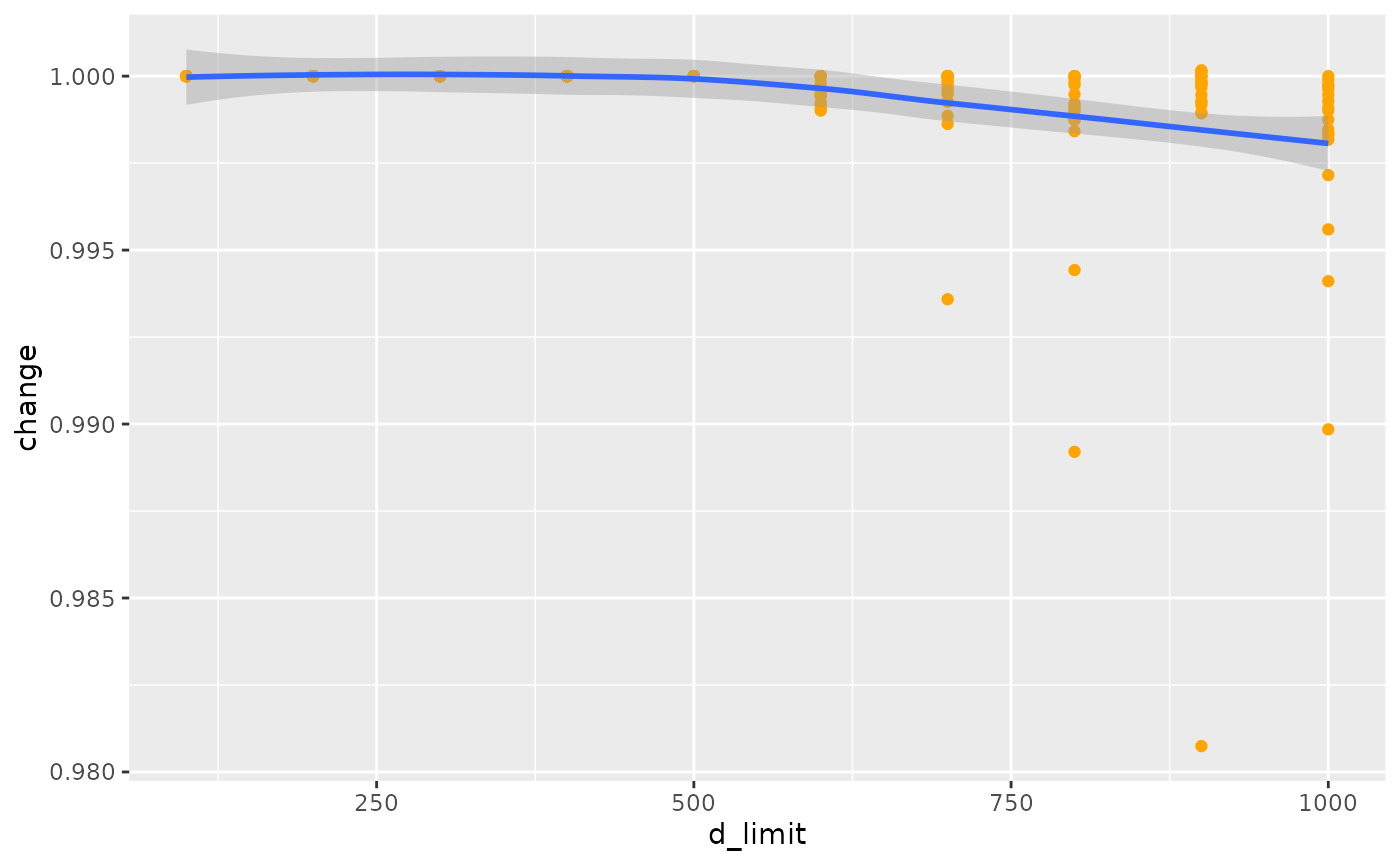
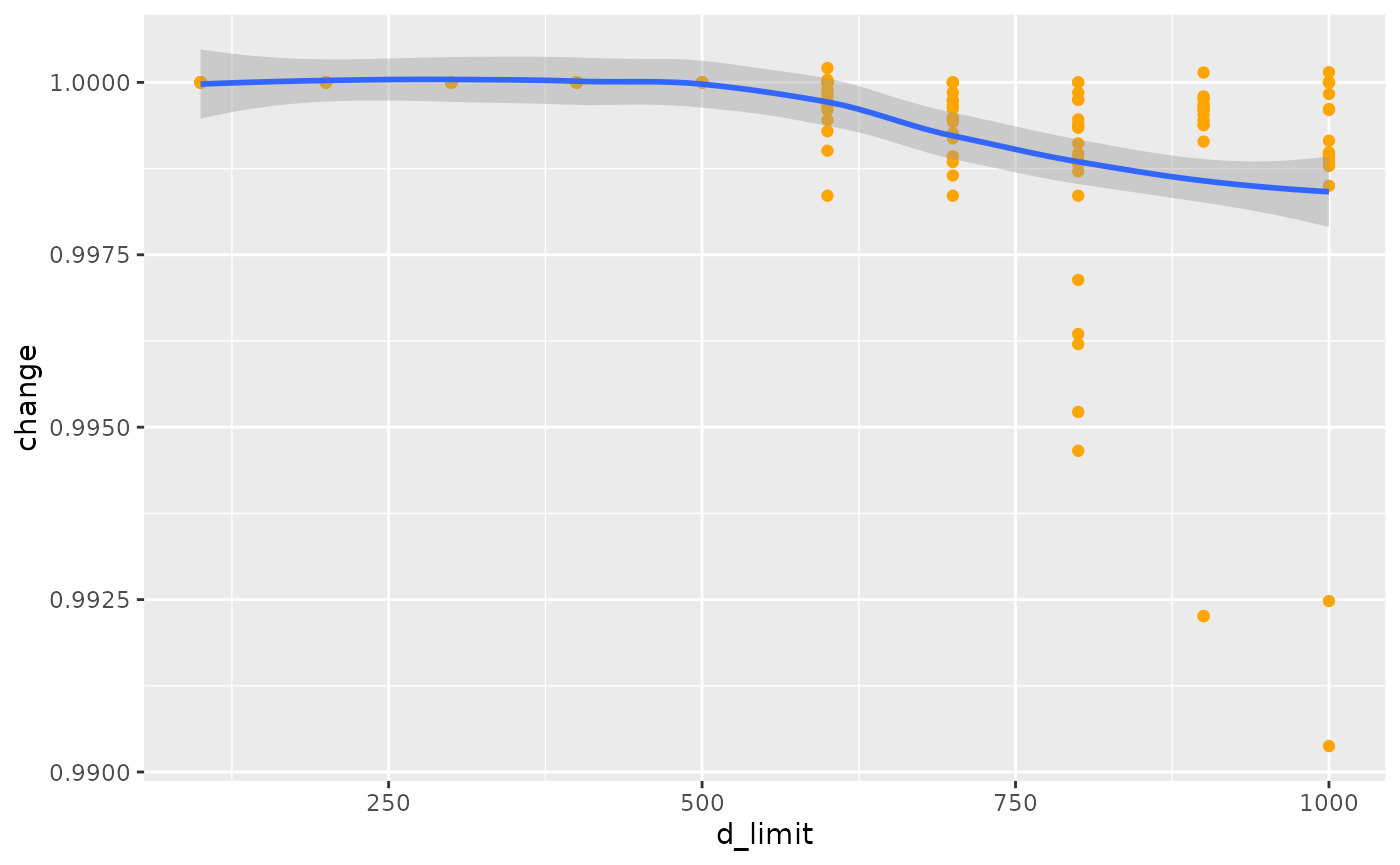
Deploying to gh-pages from @ ATFutures/gtfs-router@90d8fd0e67236167e237f324c626ee5b5995a6b1 🚀

diff --git a/docs/articles/gtfsrouter.html b/docs/articles/gtfsrouter.html
@@ -33,7 +33,7 @@
       </button>
       <span class="navbar-brand">
         <a class="navbar-link" href="../index.html">gtfsrouter</a>
-        <span class="version label label-default" data-toggle="tooltip" data-placement="bottom" title="">0.0.5.137</span>
+        <span class="version label label-default" data-toggle="tooltip" data-placement="bottom" title="">0.0.5.139</span>
       </span>
     </div>
 
@@ -126,7 +126,7 @@ to a locally-stored <code>.zip</code> archive in the
 data can be exported and re-imported with:</p>
 <div class="sourceCode" id="cb1"><pre class="downlit sourceCode r">
 <code class="sourceCode R"><span><span class="fu"><a href="../reference/berlin_gtfs_to_zip.html">berlin_gtfs_to_zip</a></span><span class="op">(</span><span class="op">)</span></span></code></pre></div>
-<pre><code><span><span class="co">## [1] "/tmp/RtmpWDYQvt/vbb.zip"</span></span></code></pre>
+<pre><code><span><span class="co">## [1] "/tmp/RtmpcsBVmd/vbb.zip"</span></span></code></pre>
 <div class="sourceCode" id="cb3"><pre class="downlit sourceCode r">
 <code class="sourceCode R"><span><span class="va">f</span> <span class="op">&lt;-</span> <span class="fu"><a href="https://rdrr.io/r/base/file.path.html" class="external-link">file.path</a></span> <span class="op">(</span><span class="fu"><a href="https://rdrr.io/r/base/tempfile.html" class="external-link">tempdir</a></span> <span class="op">(</span><span class="op">)</span>, <span class="st">"vbb.zip"</span><span class="op">)</span></span>
 <span><span class="fu"><a href="https://rdrr.io/r/base/files.html" class="external-link">file.exists</a></span> <span class="op">(</span><span class="va">f</span><span class="op">)</span></span></code></pre></div>
@@ -365,7 +365,7 @@ data:</p>
 <span>                         to <span class="op">=</span> <span class="va">to</span>,</span>
 <span>                         start_time <span class="op">=</span> <span class="st">"12:00:00"</span><span class="op">)</span><span class="op">)</span></span></code></pre></div>
 <pre><code><span><span class="co">##    user  system elapsed </span></span>
-<span><span class="co">##   0.062   0.000   0.062</span></span></code></pre>
+<span><span class="co">##   0.061   0.000   0.061</span></span></code></pre>
 <p>Note that the <code>day</code> parameter is used to extract the
 timetable, after which it is no longer required in the actual call to
 <code><a href="../reference/gtfs_route.html">gtfs_route()</a></code>.</p>

diff --git a/docs/articles/traveltimes.html b/docs/articles/traveltimes.html
@@ -33,7 +33,7 @@
       </button>
       <span class="navbar-brand">
         <a class="navbar-link" href="../index.html">gtfsrouter</a>
-        <span class="version label label-default" data-toggle="tooltip" data-placement="bottom" title="">0.0.5.137</span>
+        <span class="version label label-default" data-toggle="tooltip" data-placement="bottom" title="">0.0.5.139</span>
       </span>
     </div>
 
@@ -101,7 +101,7 @@ function</a>, is necessary prior to calculating travel times.</p>
 <div class="sourceCode" id="cb1"><pre class="downlit sourceCode r">
 <code class="sourceCode R"><span><span class="kw"><a href="https://rdrr.io/r/base/library.html" class="external-link">library</a></span> <span class="op">(</span><span class="va"><a href="https://github.com/ATFutures/gtfs-router" class="external-link">gtfsrouter</a></span><span class="op">)</span></span>
 <span><span class="fu"><a href="../reference/berlin_gtfs_to_zip.html">berlin_gtfs_to_zip</a></span> <span class="op">(</span><span class="op">)</span></span></code></pre></div>
-<pre><code><span><span class="co">## [1] "/tmp/Rtmp7YlwF3/vbb.zip"</span></span></code></pre>
+<pre><code><span><span class="co">## [1] "/tmp/Rtmphcc63X/vbb.zip"</span></span></code></pre>
 <div class="sourceCode" id="cb3"><pre class="downlit sourceCode r">
 <code class="sourceCode R"><span><span class="va">f</span> <span class="op">&lt;-</span> <span class="fu"><a href="https://rdrr.io/r/base/file.path.html" class="external-link">file.path</a></span> <span class="op">(</span><span class="fu"><a href="https://rdrr.io/r/base/tempfile.html" class="external-link">tempdir</a></span> <span class="op">(</span><span class="op">)</span>, <span class="st">"vbb.zip"</span><span class="op">)</span></span>
 <span><span class="va">gtfs</span> <span class="op">&lt;-</span> <span class="fu"><a href="../reference/extract_gtfs.html">extract_gtfs</a></span> <span class="op">(</span><span class="va">f</span>, quiet <span class="op">=</span> <span class="cn">TRUE</span><span class="op">)</span></span>

diff --git a/docs/reference/gtfs_transfer_table.html b/docs/reference/gtfs_transfer_table.html
@@ -17,7 +17,7 @@
       </button>
       <span class="navbar-brand">
         <a class="navbar-link" href="../index.html">gtfsrouter</a>
-        <span class="version label label-default" data-toggle="tooltip" data-placement="bottom" title="">0.0.5.137</span>
+        <span class="version label label-default" data-toggle="tooltip" data-placement="bottom" title="">0.0.5.139</span>
       </span>
     </div>
 
@@ -112,7 +112,7 @@ throughout the underlying street network. If this is not provided as the
     <div id="ref-examples">
     <h2>Examples</h2>
     <div class="sourceCode"><pre class="sourceCode r"><code><span class="r-in"><span><span class="fu"><a href="berlin_gtfs_to_zip.html">berlin_gtfs_to_zip</a></span> <span class="op">(</span><span class="op">)</span></span></span>
-<span class="r-out co"><span class="r-pr">#&gt;</span> [1] "/tmp/Rtmp6qQZXL/vbb.zip"</span>
+<span class="r-out co"><span class="r-pr">#&gt;</span> [1] "/tmp/RtmpuLJ3bl/vbb.zip"</span>
 <span class="r-in"><span><span class="va">f</span> <span class="op">&lt;-</span> <span class="fu"><a href="https://rdrr.io/r/base/file.path.html" class="external-link">file.path</a></span> <span class="op">(</span><span class="fu"><a href="https://rdrr.io/r/base/tempfile.html" class="external-link">tempdir</a></span> <span class="op">(</span><span class="op">)</span>, <span class="st">"vbb.zip"</span><span class="op">)</span></span></span>
 <span class="r-in"><span><span class="va">g</span> <span class="op">&lt;-</span> <span class="fu"><a href="extract_gtfs.html">extract_gtfs</a></span> <span class="op">(</span><span class="va">f</span>, quiet <span class="op">=</span> <span class="cn">TRUE</span><span class="op">)</span></span></span>
 <span class="r-in"><span><span class="va">g</span> <span class="op">&lt;-</span> <span class="fu">gtfs_transfer_table</span> <span class="op">(</span><span class="va">g</span>, d_limit <span class="op">=</span> <span class="fl">200</span><span class="op">)</span></span></span>

diff --git a/docs/reference/gtfs_route.html b/docs/reference/gtfs_route.html
@@ -18,7 +18,7 @@ a specified time."><!-- mathjax --><script src="https://cdnjs.cloudflare.com/aja
       </button>
       <span class="navbar-brand">
         <a class="navbar-link" href="../index.html">gtfsrouter</a>
-        <span class="version label label-default" data-toggle="tooltip" data-placement="bottom" title="">0.0.5.137</span>
+        <span class="version label label-default" data-toggle="tooltip" data-placement="bottom" title="">0.0.5.139</span>
       </span>
     </div>
 
@@ -182,7 +182,7 @@ can be calculated by setting <code>earliest_arrival = FALSE</code>.</p>
     <div id="ref-examples">
     <h2>Examples</h2>
     <div class="sourceCode"><pre class="sourceCode r"><code><span class="r-in"><span><span class="fu"><a href="berlin_gtfs_to_zip.html">berlin_gtfs_to_zip</a></span> <span class="op">(</span><span class="op">)</span> <span class="co"># Write sample feed from Berlin, Germany to tempdir</span></span></span>
-<span class="r-out co"><span class="r-pr">#&gt;</span> [1] "/tmp/Rtmp6qQZXL/vbb.zip"</span>
+<span class="r-out co"><span class="r-pr">#&gt;</span> [1] "/tmp/RtmpuLJ3bl/vbb.zip"</span>
 <span class="r-in"><span><span class="va">f</span> <span class="op">&lt;-</span> <span class="fu"><a href="https://rdrr.io/r/base/file.path.html" class="external-link">file.path</a></span> <span class="op">(</span><span class="fu"><a href="https://rdrr.io/r/base/tempfile.html" class="external-link">tempdir</a></span> <span class="op">(</span><span class="op">)</span>, <span class="st">"vbb.zip"</span><span class="op">)</span> <span class="co"># name of feed</span></span></span>
 <span class="r-in"><span><span class="va">gtfs</span> <span class="op">&lt;-</span> <span class="fu"><a href="extract_gtfs.html">extract_gtfs</a></span> <span class="op">(</span><span class="va">f</span><span class="op">)</span></span></span>
 <span class="r-msg co"><span class="r-pr">#&gt;</span> ▶<span style="color: #00BB00;"> Unzipping GTFS archive</span></span>

diff --git a/docs/reference/berlin_gtfs.html b/docs/reference/berlin_gtfs.html
@@ -23,7 +23,7 @@ characters.'><!-- mathjax --><script src="https://cdnjs.cloudflare.com/ajax/libs
       </button>
       <span class="navbar-brand">
         <a class="navbar-link" href="../index.html">gtfsrouter</a>
-        <span class="version label label-default" data-toggle="tooltip" data-placement="bottom" title="">0.0.5.137</span>
+        <span class="version label label-default" data-toggle="tooltip" data-placement="bottom" title="">0.0.5.139</span>
       </span>
     </div>
 
@@ -96,7 +96,7 @@ for which no route is possible return <code>NULL</code>.</p>
     <div id="ref-examples">
     <h2>Examples</h2>
     <div class="sourceCode"><pre class="sourceCode r"><code><span class="r-in"><span><span class="fu"><a href="berlin_gtfs_to_zip.html">berlin_gtfs_to_zip</a></span> <span class="op">(</span><span class="op">)</span> <span class="co"># Write sample feed from Berlin, Germany to tempdir</span></span></span>
-<span class="r-out co"><span class="r-pr">#&gt;</span> [1] "/tmp/Rtmp6qQZXL/vbb.zip"</span>
+<span class="r-out co"><span class="r-pr">#&gt;</span> [1] "/tmp/RtmpuLJ3bl/vbb.zip"</span>
 <span class="r-in"><span><span class="va">f</span> <span class="op">&lt;-</span> <span class="fu"><a href="https://rdrr.io/r/base/file.path.html" class="external-link">file.path</a></span> <span class="op">(</span><span class="fu"><a href="https://rdrr.io/r/base/tempfile.html" class="external-link">tempdir</a></span> <span class="op">(</span><span class="op">)</span>, <span class="st">"vbb.zip"</span><span class="op">)</span> <span class="co"># name of feed</span></span></span>
 <span class="r-in"><span><span class="va">gtfs</span> <span class="op">&lt;-</span> <span class="fu"><a href="extract_gtfs.html">extract_gtfs</a></span> <span class="op">(</span><span class="va">f</span><span class="op">)</span></span></span>
 <span class="r-msg co"><span class="r-pr">#&gt;</span> ▶<span style="color: #00BB00;"> Unzipping GTFS archive</span></span>

diff --git a/docs/reference/gtfs_timetable.html b/docs/reference/gtfs_timetable.html
@@ -17,7 +17,7 @@
       </button>
       <span class="navbar-brand">
         <a class="navbar-link" href="../index.html">gtfsrouter</a>
-        <span class="version label label-default" data-toggle="tooltip" data-placement="bottom" title="">0.0.5.137</span>
+        <span class="version label label-default" data-toggle="tooltip" data-placement="bottom" title="">0.0.5.139</span>
       </span>
     </div>
 
@@ -126,7 +126,7 @@ that case will generally take longer.</p>
     <div id="ref-examples">
     <h2>Examples</h2>
     <div class="sourceCode"><pre class="sourceCode r"><code><span class="r-in"><span><span class="fu"><a href="berlin_gtfs_to_zip.html">berlin_gtfs_to_zip</a></span> <span class="op">(</span><span class="op">)</span> <span class="co"># Write sample feed from Berlin, Germany to tempdir</span></span></span>
-<span class="r-out co"><span class="r-pr">#&gt;</span> [1] "/tmp/Rtmp6qQZXL/vbb.zip"</span>
+<span class="r-out co"><span class="r-pr">#&gt;</span> [1] "/tmp/RtmpuLJ3bl/vbb.zip"</span>
 <span class="r-in"><span><span class="va">f</span> <span class="op">&lt;-</span> <span class="fu"><a href="https://rdrr.io/r/base/file.path.html" class="external-link">file.path</a></span> <span class="op">(</span><span class="fu"><a href="https://rdrr.io/r/base/tempfile.html" class="external-link">tempdir</a></span> <span class="op">(</span><span class="op">)</span>, <span class="st">"vbb.zip"</span><span class="op">)</span> <span class="co"># name of feed</span></span></span>
 <span class="r-in"><span><span class="va">gtfs</span> <span class="op">&lt;-</span> <span class="fu"><a href="extract_gtfs.html">extract_gtfs</a></span> <span class="op">(</span><span class="va">f</span><span class="op">)</span></span></span>
 <span class="r-msg co"><span class="r-pr">#&gt;</span> ▶<span style="color: #00BB00;"> Unzipping GTFS archive</span></span>

diff --git a/docs/reference/gtfs_traveltimes.html b/docs/reference/gtfs_traveltimes.html
@@ -18,7 +18,7 @@ other reachable station in a system."><!-- mathjax --><script src="https://cdnjs
       </button>
       <span class="navbar-brand">
         <a class="navbar-link" href="../index.html">gtfsrouter</a>
-        <span class="version label label-default" data-toggle="tooltip" data-placement="bottom" title="">0.0.5.137</span>
+        <span class="version label label-default" data-toggle="tooltip" data-placement="bottom" title="">0.0.5.139</span>
       </span>
     </div>
 
@@ -155,7 +155,7 @@ to reach all or most stations desired for a particular query, rather than set
     <div id="ref-examples">
     <h2>Examples</h2>
     <div class="sourceCode"><pre class="sourceCode r"><code><span class="r-in"><span><span class="fu"><a href="berlin_gtfs_to_zip.html">berlin_gtfs_to_zip</a></span> <span class="op">(</span><span class="op">)</span></span></span>
-<span class="r-out co"><span class="r-pr">#&gt;</span> [1] "/tmp/Rtmp6qQZXL/vbb.zip"</span>
+<span class="r-out co"><span class="r-pr">#&gt;</span> [1] "/tmp/RtmpuLJ3bl/vbb.zip"</span>
 <span class="r-in"><span><span class="va">f</span> <span class="op">&lt;-</span> <span class="fu"><a href="https://rdrr.io/r/base/file.path.html" class="external-link">file.path</a></span> <span class="op">(</span><span class="fu"><a href="https://rdrr.io/r/base/tempfile.html" class="external-link">tempdir</a></span> <span class="op">(</span><span class="op">)</span>, <span class="st">"vbb.zip"</span><span class="op">)</span></span></span>
 <span class="r-in"><span><span class="va">g</span> <span class="op">&lt;-</span> <span class="fu"><a href="extract_gtfs.html">extract_gtfs</a></span> <span class="op">(</span><span class="va">f</span><span class="op">)</span></span></span>
 <span class="r-msg co"><span class="r-pr">#&gt;</span> ▶<span style="color: #00BB00;"> Unzipping GTFS archive</span></span>

diff --git a/docs/reference/extract_gtfs.html b/docs/reference/extract_gtfs.html
@@ -17,7 +17,7 @@
       </button>
       <span class="navbar-brand">
         <a class="navbar-link" href="../index.html">gtfsrouter</a>
-        <span class="version label label-default" data-toggle="tooltip" data-placement="bottom" title="">0.0.5.137</span>
+        <span class="version label label-default" data-toggle="tooltip" data-placement="bottom" title="">0.0.5.139</span>
       </span>
     </div>
 
@@ -102,7 +102,7 @@ function to the two time columns of the "stop_times" table.</p>
     <div id="ref-examples">
     <h2>Examples</h2>
     <div class="sourceCode"><pre class="sourceCode r"><code><span class="r-in"><span><span class="fu"><a href="berlin_gtfs_to_zip.html">berlin_gtfs_to_zip</a></span> <span class="op">(</span><span class="op">)</span> <span class="co"># Write sample feed from Berlin, Germany to tempdir</span></span></span>
-<span class="r-out co"><span class="r-pr">#&gt;</span> [1] "/tmp/Rtmp6qQZXL/vbb.zip"</span>
+<span class="r-out co"><span class="r-pr">#&gt;</span> [1] "/tmp/RtmpuLJ3bl/vbb.zip"</span>
 <span class="r-in"><span><span class="va">f</span> <span class="op">&lt;-</span> <span class="fu"><a href="https://rdrr.io/r/base/file.path.html" class="external-link">file.path</a></span> <span class="op">(</span><span class="fu"><a href="https://rdrr.io/r/base/tempfile.html" class="external-link">tempdir</a></span> <span class="op">(</span><span class="op">)</span>, <span class="st">"vbb.zip"</span><span class="op">)</span> <span class="co"># name of feed</span></span></span>
 <span class="r-in"><span><span class="va">gtfs</span> <span class="op">&lt;-</span> <span class="fu">extract_gtfs</span> <span class="op">(</span><span class="va">f</span><span class="op">)</span></span></span>
 <span class="r-msg co"><span class="r-pr">#&gt;</span> ▶<span style="color: #00BB00;"> Unzipping GTFS archive</span></span>

diff --git a/docs/articles/transfers.html b/docs/articles/transfers.html
@@ -33,7 +33,7 @@
       </button>
       <span class="navbar-brand">
         <a class="navbar-link" href="../index.html">gtfsrouter</a>
-        <span class="version label label-default" data-toggle="tooltip" data-placement="bottom" title="">0.0.5.137</span>
+        <span class="version label label-default" data-toggle="tooltip" data-placement="bottom" title="">0.0.5.139</span>
       </span>
     </div>
 
@@ -590,9 +590,9 @@ range of distance limits.</p>
 <p><img src="transfers_files/figure-html/plot1-1.png" width="700"></p>
 <p>And these additional transfer possibilities can make a significant
 difference to estimated travel times. Note, however, that the travel
-times only changed for 579 stations, while the value of
+times only changed for 1078 stations, while the value of
 <code>nsame</code> value recording numbers of stations for which travel
-times did not change was 4,609. Travel times may also increase as
+times did not change was 4,547. Travel times may also increase as
 additional transfers may be used to reduce numbers of connecting
 services required for a particular trip, and the algorithm generally
 searches for connections with minimal numbers of transfers.</p>
@@ -674,7 +674,7 @@ limits of maximal transfer distance, although the overall effect is very
 minimal. The object <code>d</code> also records the proportion of
 station pairs for which modifications to the transfers table actually
 changed travel times, which in this case amounts to a mean value of
-0.0052, clearly revealing that very few trips actually change.</p>
+0.0045, clearly revealing that very few trips actually change.</p>
 <div class="section level3">
 <h3 id="a-more-realistic-example">A more realistic example<a class="anchor" aria-label="anchor" href="#a-more-realistic-example"></a>
 </h3>

diff --git a/docs/reference/summary.gtfs.html b/docs/reference/summary.gtfs.html
@@ -17,7 +17,7 @@
       </button>
       <span class="navbar-brand">
         <a class="navbar-link" href="../index.html">gtfsrouter</a>
-        <span class="version label label-default" data-toggle="tooltip" data-placement="bottom" title="">0.0.5.137</span>
+        <span class="version label label-default" data-toggle="tooltip" data-placement="bottom" title="">0.0.5.139</span>
       </span>
     </div>
 
@@ -81,7 +81,7 @@
     <div id="ref-examples">
     <h2>Examples</h2>
     <div class="sourceCode"><pre class="sourceCode r"><code><span class="r-in"><span><span class="fu"><a href="berlin_gtfs_to_zip.html">berlin_gtfs_to_zip</a></span> <span class="op">(</span><span class="op">)</span></span></span>
-<span class="r-out co"><span class="r-pr">#&gt;</span> [1] "/tmp/Rtmp6qQZXL/vbb.zip"</span>
+<span class="r-out co"><span class="r-pr">#&gt;</span> [1] "/tmp/RtmpuLJ3bl/vbb.zip"</span>
 <span class="r-in"><span><span class="va">f</span> <span class="op">&lt;-</span> <span class="fu"><a href="https://rdrr.io/r/base/file.path.html" class="external-link">file.path</a></span> <span class="op">(</span><span class="fu"><a href="https://rdrr.io/r/base/tempfile.html" class="external-link">tempdir</a></span> <span class="op">(</span><span class="op">)</span>, <span class="st">"vbb.zip"</span><span class="op">)</span></span></span>
 <span class="r-in"><span><span class="va">g</span> <span class="op">&lt;-</span> <span class="fu"><a href="extract_gtfs.html">extract_gtfs</a></span> <span class="op">(</span><span class="va">f</span><span class="op">)</span></span></span>
 <span class="r-msg co"><span class="r-pr">#&gt;</span> ▶<span style="color: #00BB00;"> Unzipping GTFS archive</span></span>

diff --git a/docs/authors.html b/docs/authors.html
@@ -17,7 +17,7 @@
       </button>
       <span class="navbar-brand">
         <a class="navbar-link" href="index.html">gtfsrouter</a>
-        <span class="version label label-default" data-toggle="tooltip" data-placement="bottom" title="">0.0.5.137</span>
+        <span class="version label label-default" data-toggle="tooltip" data-placement="bottom" title="">0.0.5.139</span>
       </span>
     </div>
 
@@ -74,13 +74,13 @@
 
     <p>Padgham M, Stepniak M (2022).
 <em>gtfsrouter: Routing with GTFS (General Transit Feed Specification) Data</em>.
-R package version 0.0.5.137, <a href="https://github.com/ATFutures/gtfs-router" class="external-link">https://github.com/ATFutures/gtfs-router</a>. 
+R package version 0.0.5.139, <a href="https://github.com/ATFutures/gtfs-router" class="external-link">https://github.com/ATFutures/gtfs-router</a>. 
 </p>
     <pre>@Manual{,
   title = {gtfsrouter: Routing with GTFS (General Transit Feed Specification) Data},
   author = {Mark Padgham and Marcin Stepniak},
   year = {2022},
-  note = {R package version 0.0.5.137},
+  note = {R package version 0.0.5.139},
   url = {https://github.com/ATFutures/gtfs-router},
 }</pre>
 

diff --git a/docs/index.html b/docs/index.html
@@ -35,7 +35,7 @@
       </button>
       <span class="navbar-brand">
         <a class="navbar-link" href="index.html">gtfsrouter</a>
-        <span class="version label label-default" data-toggle="tooltip" data-placement="bottom" title="">0.0.5.137</span>
+        <span class="version label label-default" data-toggle="tooltip" data-placement="bottom" title="">0.0.5.139</span>
       </span>
     </div>
 
@@ -383,6 +383,9 @@
 </td>
 <td align="center">
 <a href="https://github.com/jh0ker" class="external-link"> <img src="https://avatars.githubusercontent.com/u/3945220?u=dcb262dbf7fe448a8b24b673bcb995e3311f08d4&amp;v=4" width="100px;" alt=""></a><br><a href="https://github.com/ATFutures/gtfs-router/issues?q=is%3Aissue+author%3Ajh0ker" class="external-link">jh0ker</a>
+</td>
+<td align="center">
+<a href="https://github.com/zamirD123" class="external-link"> <img src="https://avatars.githubusercontent.com/u/69770500?v=4" width="100px;" alt=""></a><br><a href="https://github.com/ATFutures/gtfs-router/issues?q=is%3Aissue+author%3AzamirD123" class="external-link">zamirD123</a>
 </td>
 </tr>
 </table>
